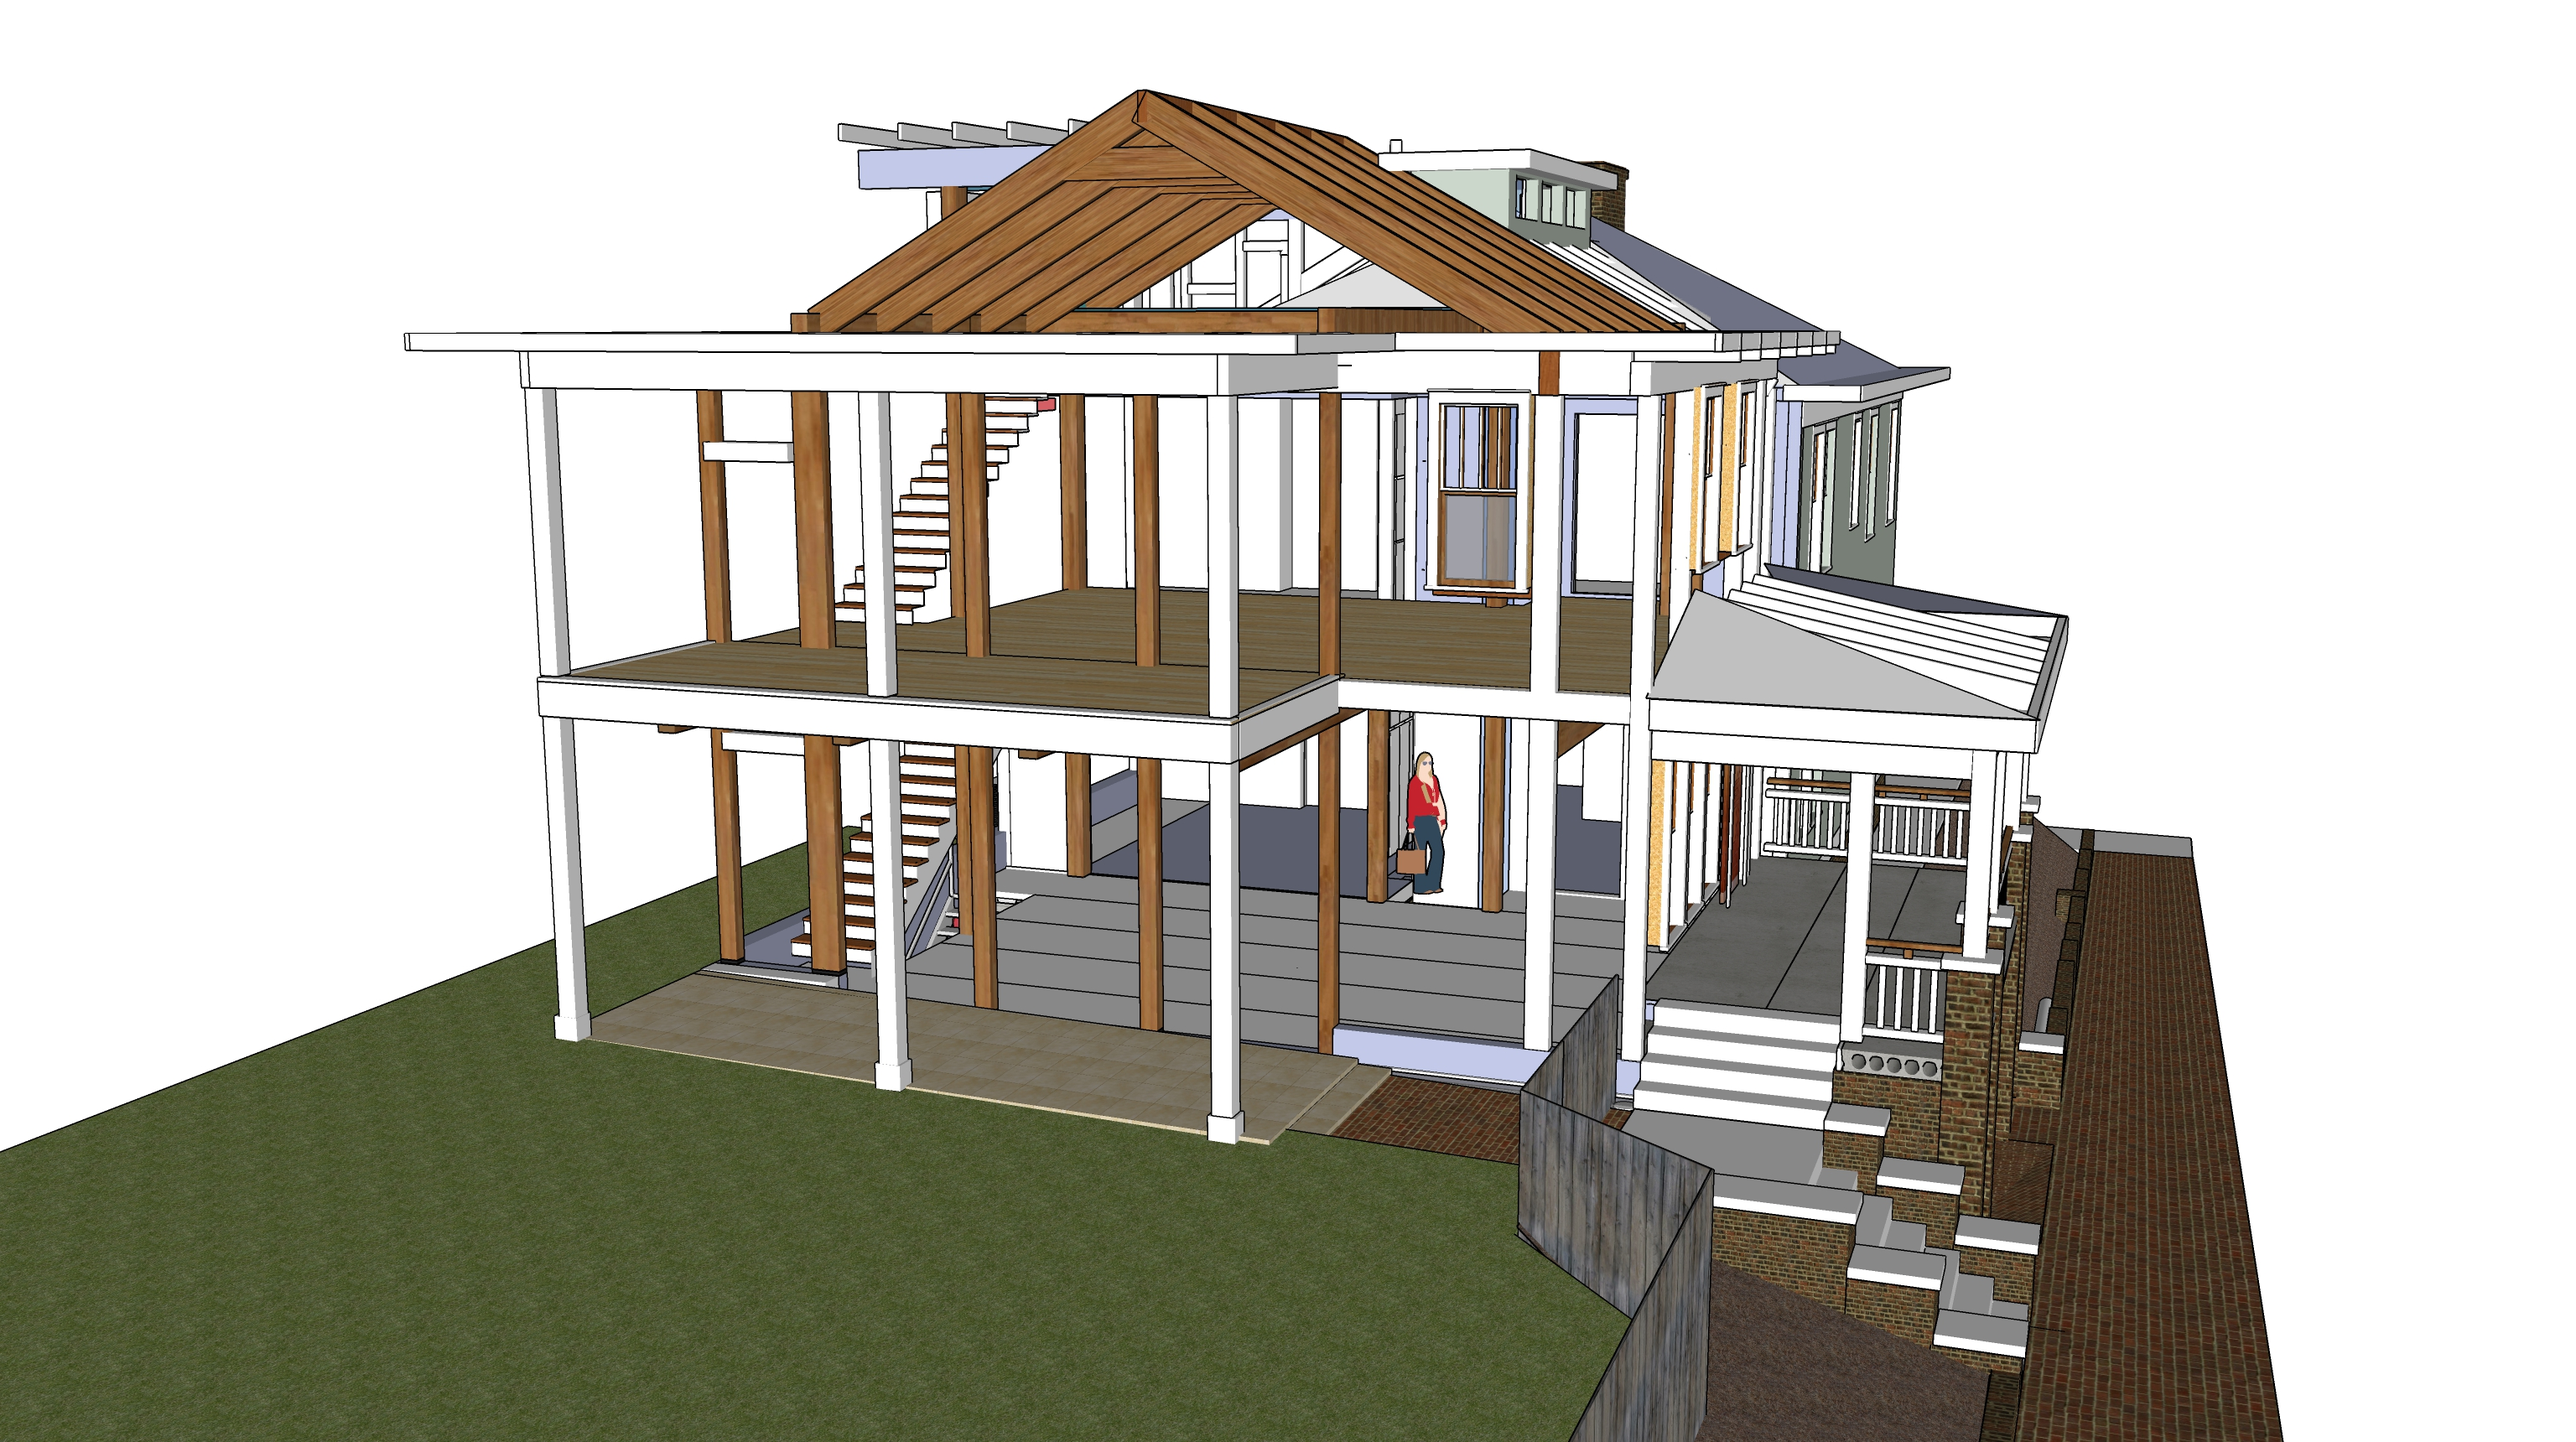
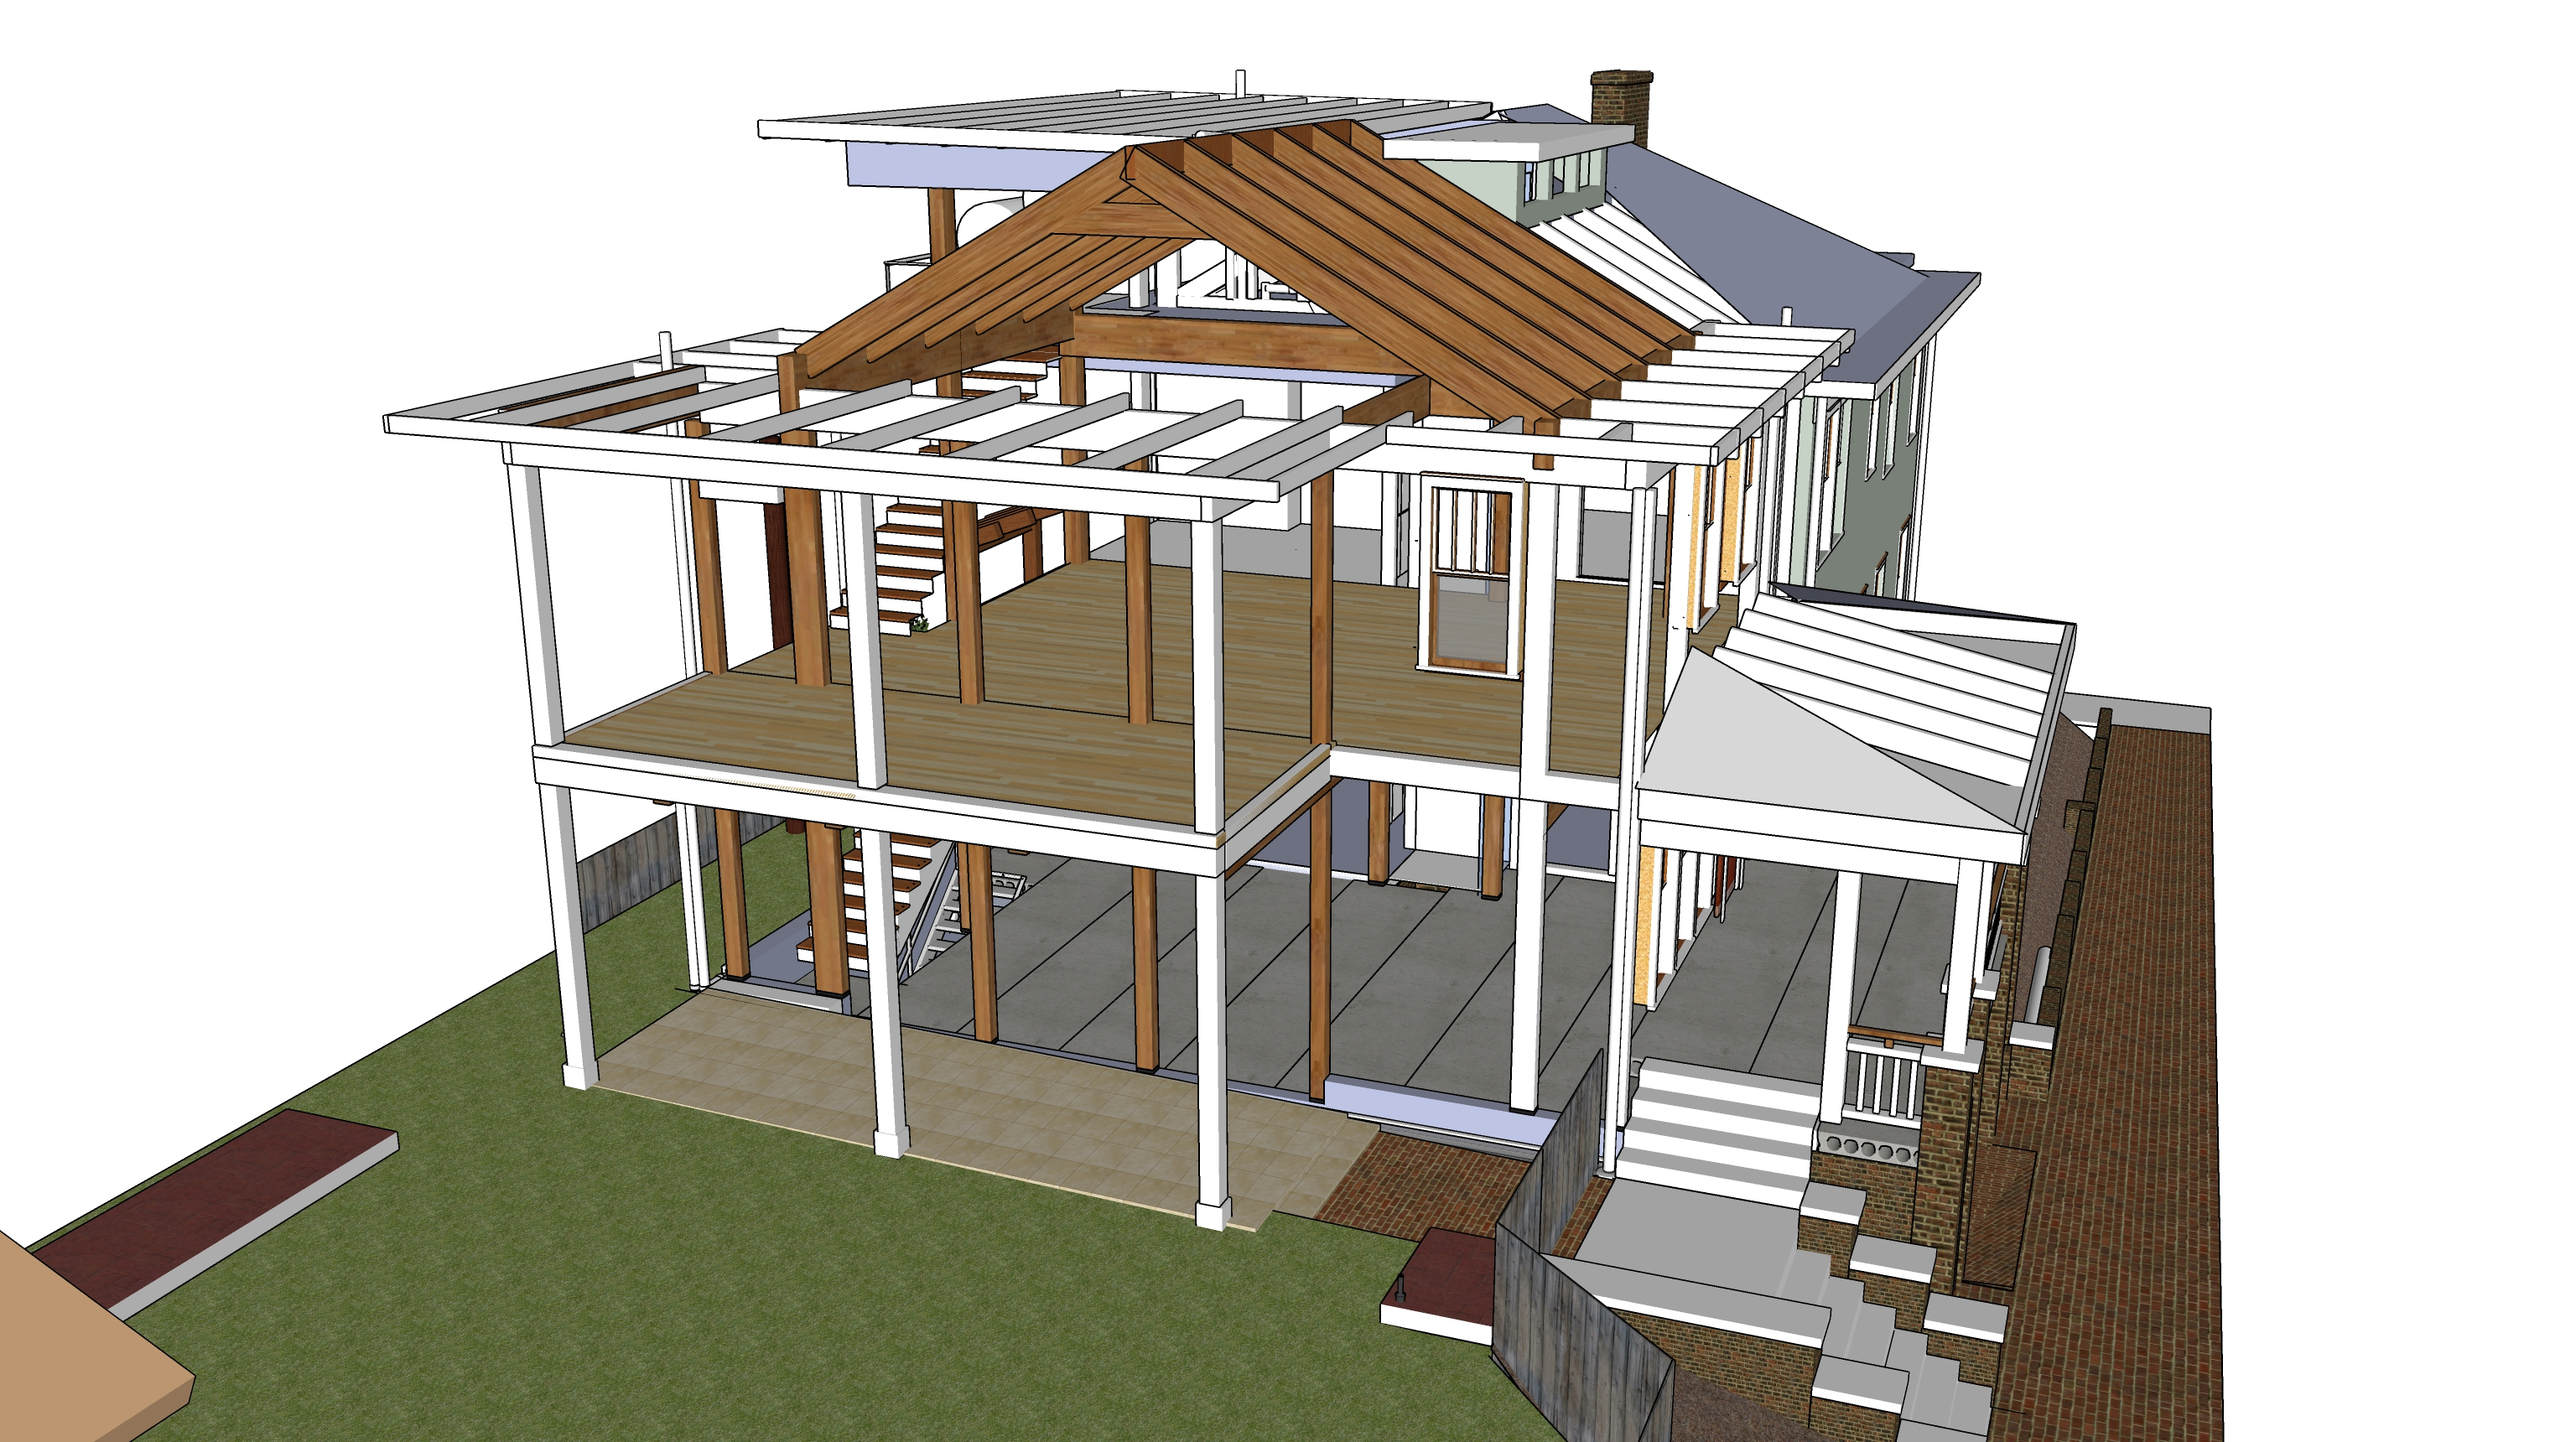
Photos

diff --git a/index.html b/index.html
@@ -39,7 +39,14 @@
 </h3>
 
 <h2>Bass Street Exterior</h2><br>
-<a href="exterior/img/southeast.jpg"><img src="exterior/img/southeast.jpg" style="width:100%; max-width: 1200px"></a>
+<a href="exterior/img/southeast.jpg"><img src="exterior/img/southeast.jpg" style="width:100%; max-width: 1200px"></a><br><br>
+
+Existing house is indicated in blue.  Laundry area removed from back would be repurposed as Art Shed or given away for reuse. (7' x 14' x 10' tall)<br><br>
+
+<a href="exterior/img/floorplan.jpg"><img src="exterior/img/floorplan.jpg" style="width:100%; max-width: 1000px"></a><br><br> 
+
+
+
 
 <br><br>
 The existing stacked laundry rooms (7' by 14') will be moved to the back of the yard to create an art shed.<br><br>
@@ -47,11 +54,10 @@ The existing stacked laundry rooms (7' by 14') will be moved to the back of the 
 <a href="exterior/img/before/back.jpg"><img src="exterior/img/before/back.jpg" style="width:100%; max-width: 550px; float:left; margin:0 20px 20px 0"></a>
 <a href="exterior/img/before/back-laundryroom.jpg"><img src="exterior/img/before/back-laundryroom.jpg" style="width:100%; max-width: 550px; float:left; margin:0 20px 20px 0"></a>
 
+<a href="exterior/img/rear/photo-westside-wide.jpg"><img src="exterior/img/rear/photo-westside-wide.jpg" style="width:100%; max-width: 1120px"></a><br><br>
+<a href="exterior/img/rear/photo-southside-uphill.jpg"><img src="exterior/img/rear/photo-southside-uphill.jpg" style="width:100%; max-width: 1120px"></a>
+
 <div style="clear:both"></div><br>
-
-Existing house is indicated in blue.  Laundry area removed from back would be repurposed as Art Shed or given away for reuse. (7' x 14' x 10' tall)<br><br>
-
-<a href="exterior/img/floorplan.jpg"><img src="exterior/img/floorplan.jpg" style="width:100%; max-width: 1000px"></a><br><br> 
 
 
 
@@ -61,7 +67,7 @@ Existing house is indicated in blue.  Laundry area removed from back would be re
 <div id="elevations"></div>
 -->
 
-<h2>Framework over Hollow Core (Precast Concrete)</h2><br>
+<h2>Framework / Hollow Core Main Floor</h2><br>
 <a href="framework/img/framework-west.jpg"><img src="framework/img/framework-west.jpg" style="width:100%; max-width: 1200px"></a>
 
 <h2>Exterior Northwest</h2>
